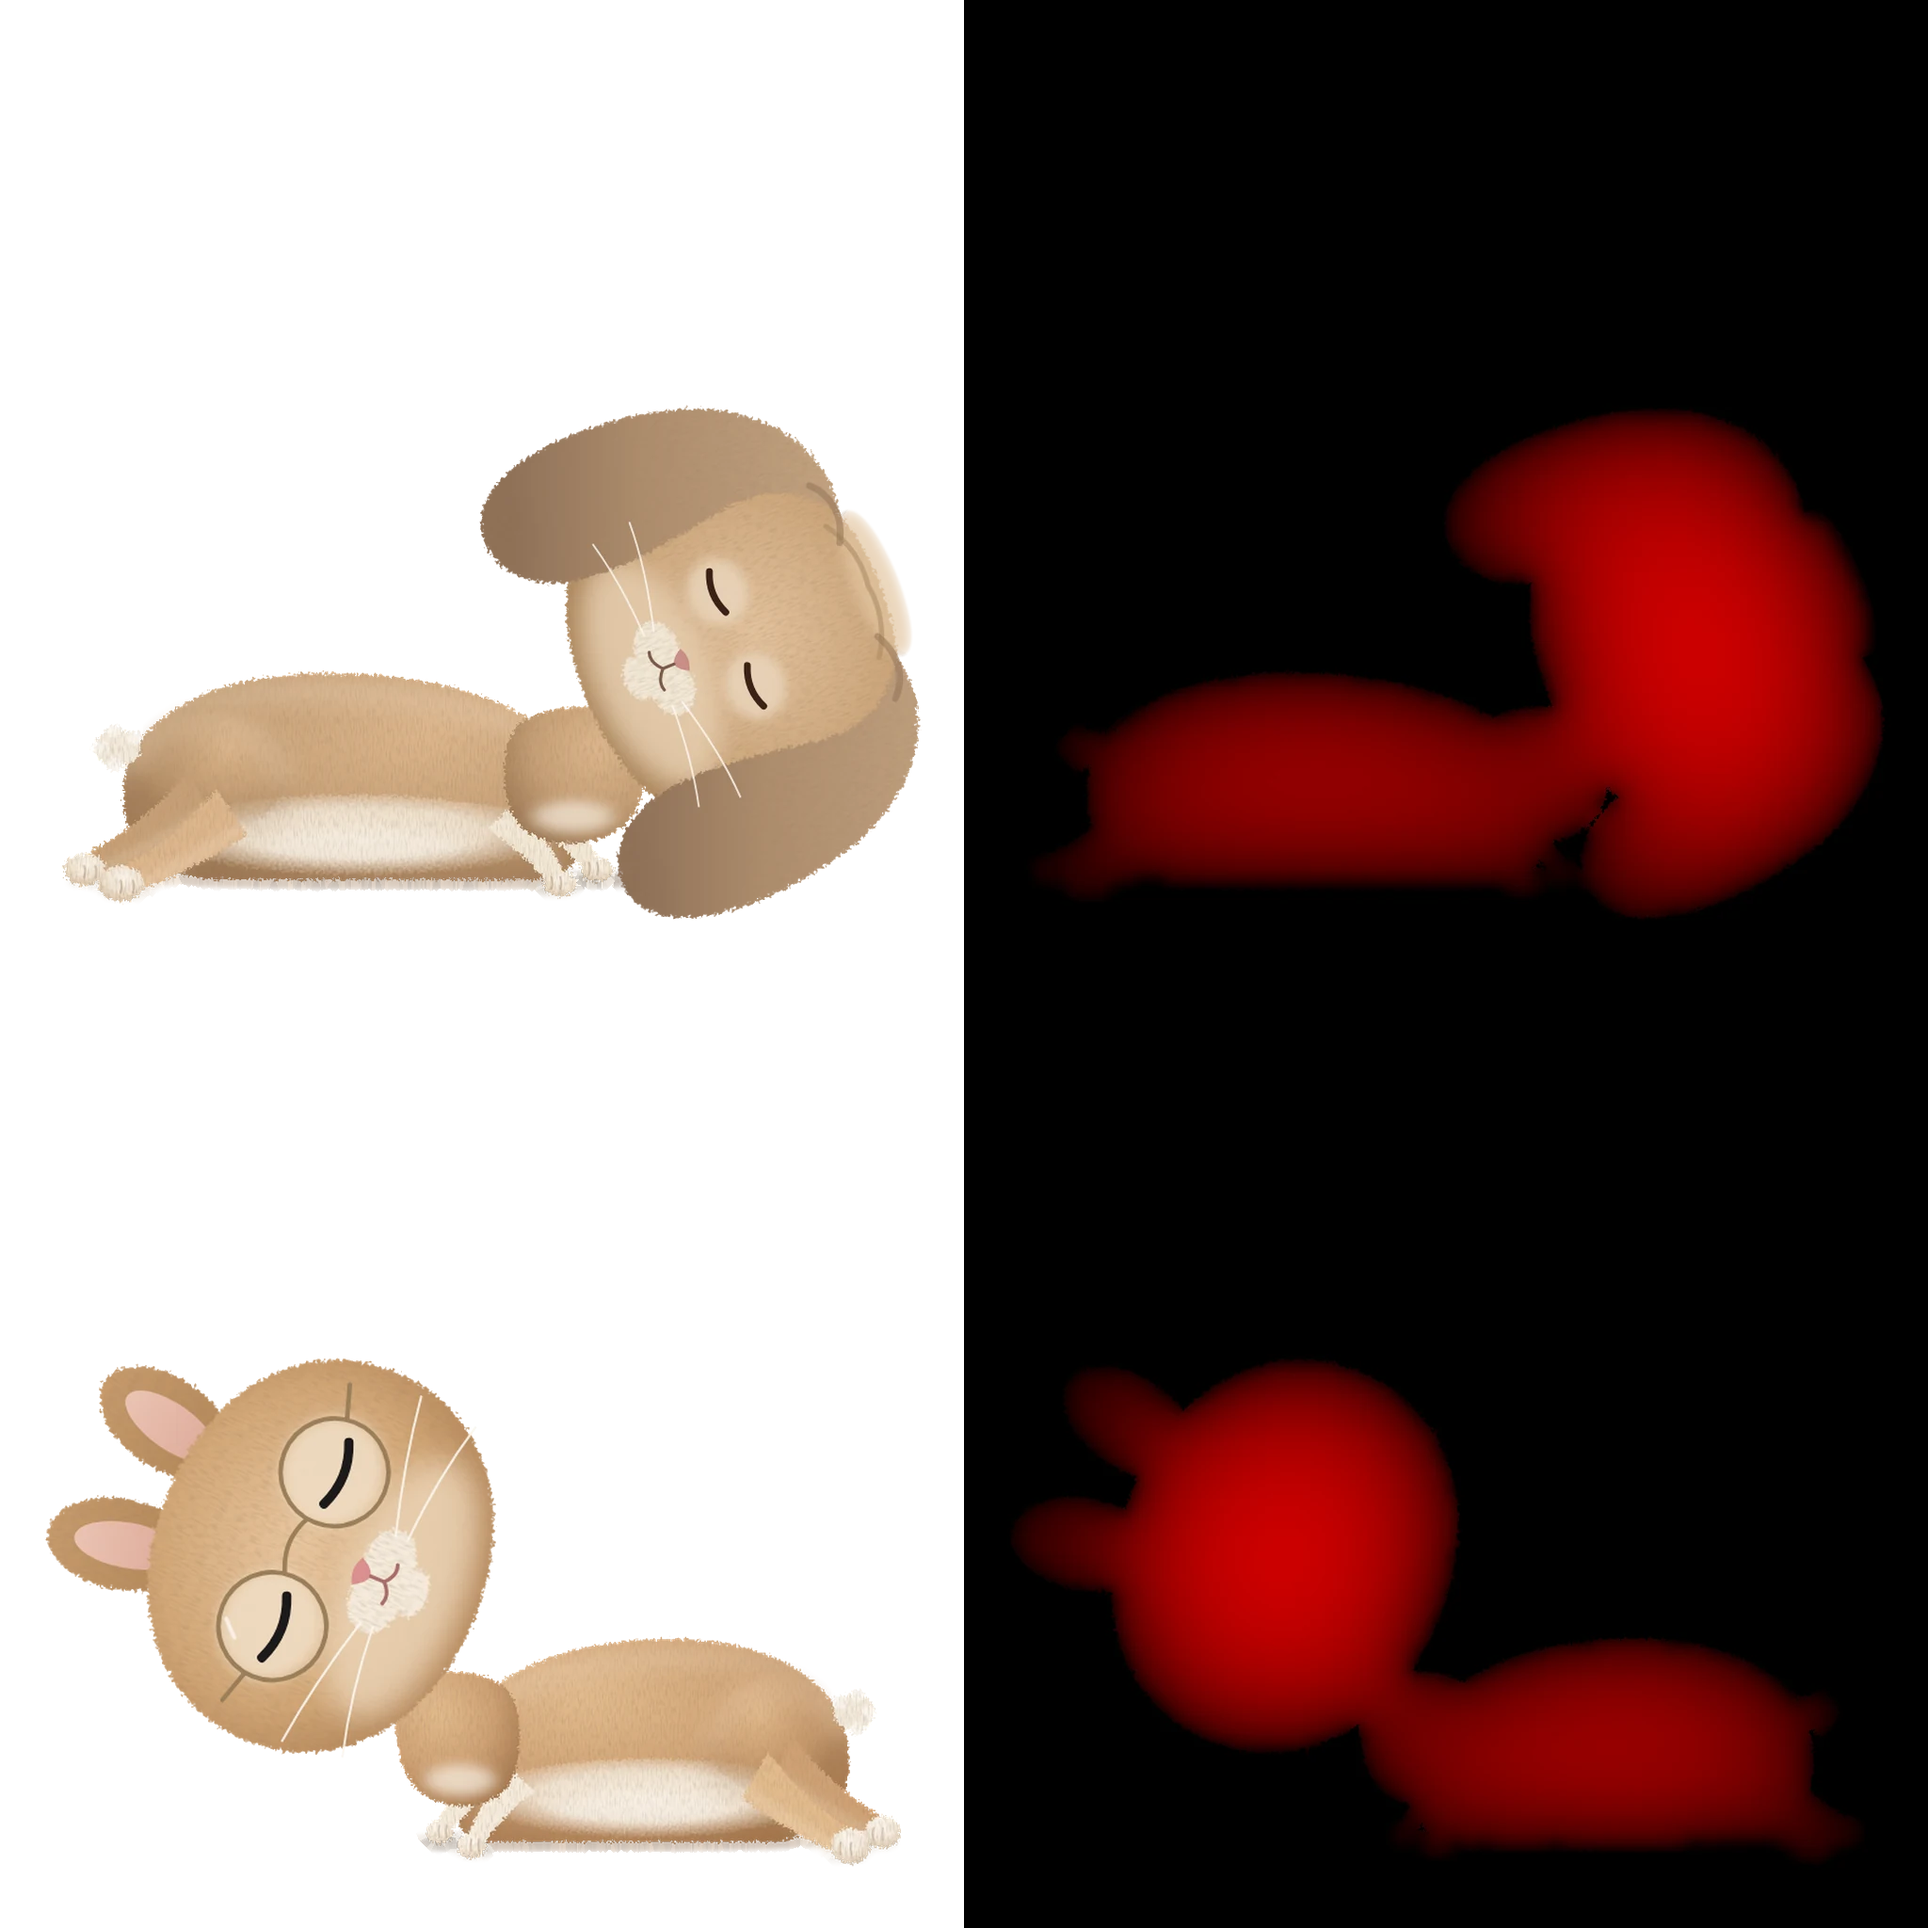
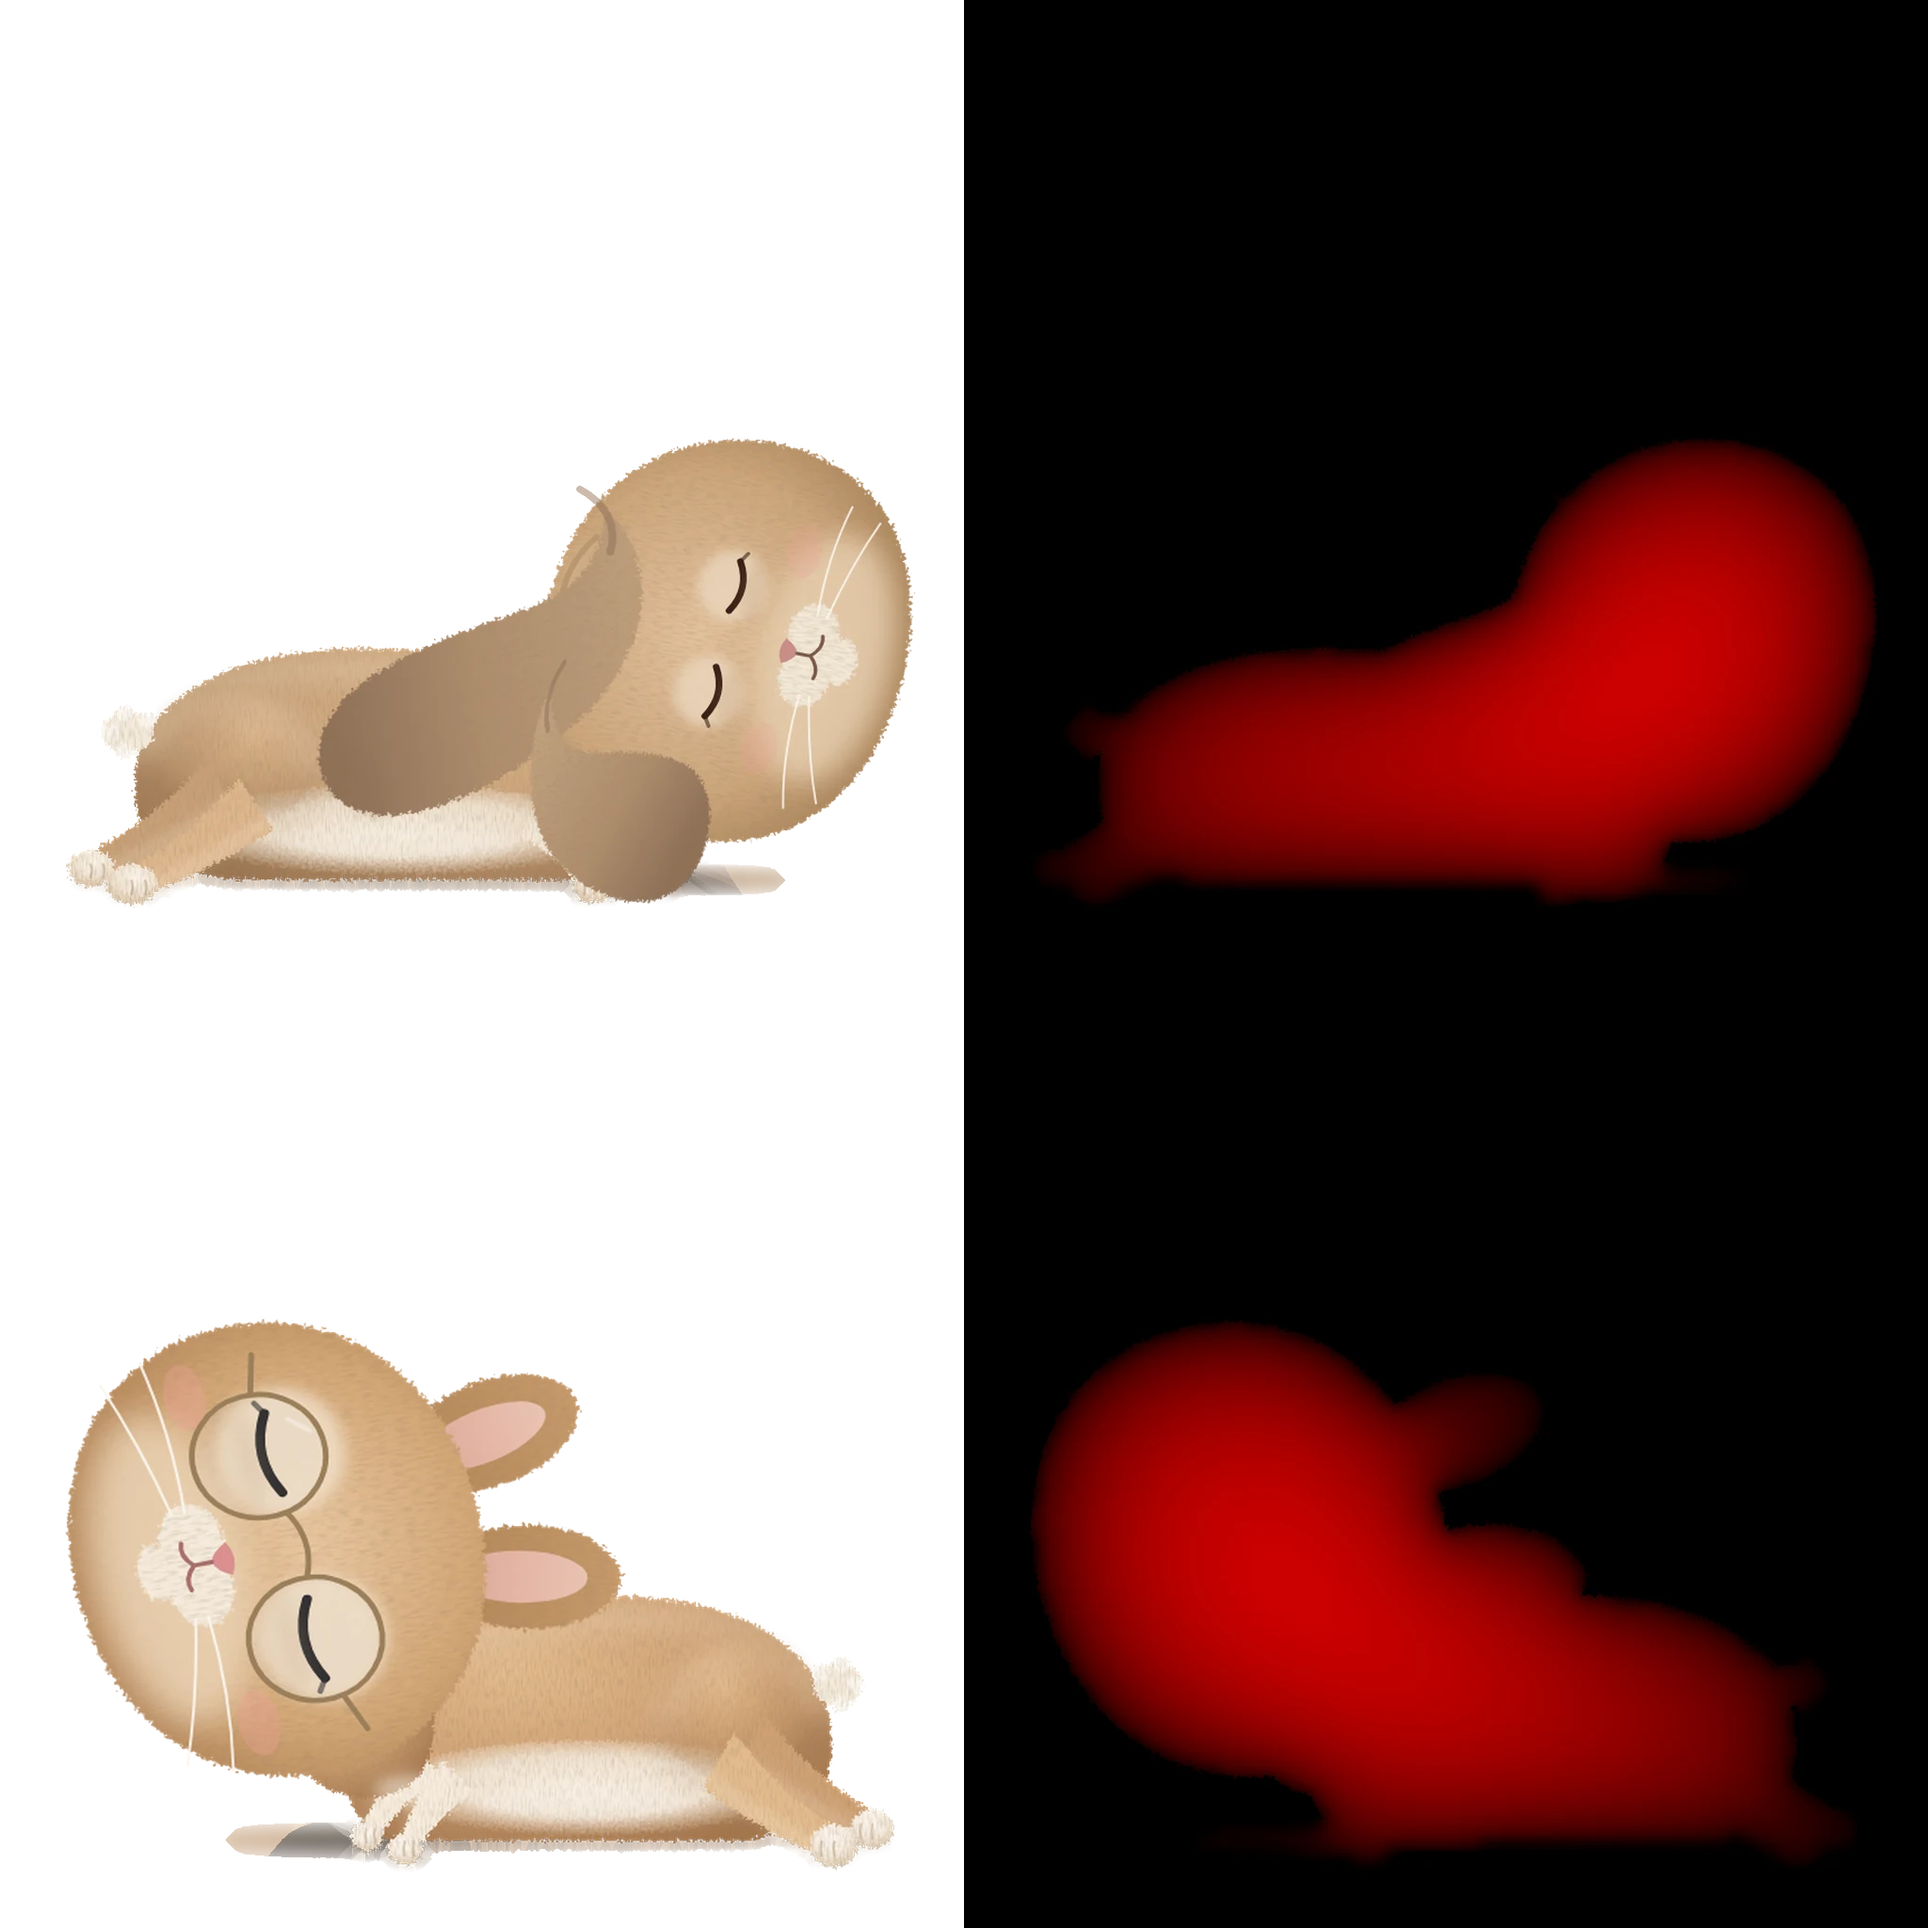
動くレンとジル：ばたんの首を本物に合わせる（ほおを床に・耳は背中へ）・倒れる動き・頭の上の輪を消す
Claude-Session: https://claude.ai/code/session_01KYhWQVkUVFVXPun7Dy396r

diff --git a/guide3d.js b/guide3d.js
@@ -32,7 +32,7 @@
   const FACE = { open: 0, blink: 1, happy: 2 };
   // 寝る姿勢の倍率（→ NOTES）
   const POSE_R = [1.728, 1.2604], POSE_X = [-0.3272, 0.2587];   // X＝ずれ
-  const FLOP_R = [1.456, 1.2865], FLOP_X = [-0.2088, 0.0738], t2 = (col, row) => [(col * CELL + PAD) / 2048, (row * CELL + PAD) / 2048, INNER / 2048, INNER / 2048];   // ばたん（2 枚目の絵 atlas2.webp）
+  const FLOP_R = [1.2992, 1.0677], FLOP_X = [-0.2872, 0.1832], t2 = (col, row) => [(col * CELL + PAD) / 2048, (row * CELL + PAD) / 2048, INNER / 2048, INNER / 2048];   // ばたん（2 枚目の絵 atlas2.webp）
   const BOW_R = [1.408, 1.125], BOW_X = [-0.1528, 0.0938];   // 前のび（伸び＋あくび）の（→ NOTES）
   const flatOff = (c) => { const X = c.fp ? FLOP_X : POSE_X, Rr = c.fp ? FLOP_R : POSE_R; return Math.cos(c.tA || 0) >= 0 ? X[c.row] + (c.row ? 0.16 : -0.16) : (c.row ? -1 : 1) * (0.3 - Rr[c.row] / 2); };   // 寝る絵のまん中のずれ（→ NOTES）
   const FOOT = 0.058;      // 絵の下から足の裏までの割合
@@ -446,7 +446,7 @@ void main() { vec4 c = texture2D(uI, uTile.xy + (vQ * vec2(0.5, -0.5) + 0.5) * u
         c.asleep = asleep; c.idNow = id; c.env = env; c.loafNow = loaf; c.calmNow = calm;
         { const wb = c.mode === "sit" && c.idNow === "stretch" && c.env > 0.3 && !c.flat; if (wb !== c.bwG) { c.bwG = wb; c.bwT = 0; } if ((c.bwT ?? 1) < 1) { const w0 = c.bwT; c.bwT = Math.min(1, c.bwT + dt / 0.32); if (w0 < 0.5 && c.bwT >= 0.5) c.bw = wb; } }   // 伸び：前足を前へ・お尻を（→ NOTES）
         // 居眠り：のびて横になる（（→ NOTES）
-        { const want = asleep && c.hop === 0; if (want !== c.flatGoal) { c.flatGoal = want; c.lieT = 0; if (want) c.fp = !!tex2 && Math.random() < 0.4; } if (c.lieT < 1) { const was = c.lieT; c.lieT = Math.min(1, c.lieT + dt / (want ? 0.7 : 0.45)); if (was < 0.5 && c.lieT >= 0.5) { c.flat = want; if (want) c.legIn = 0.45; } }
+        { const want = asleep && c.hop === 0; if (want !== c.flatGoal) { c.flatGoal = want; c.lieT = 0; if (want) c.fp = !!tex2 && Math.random() < 0.4; } if (c.lieT < 1) { const was = c.lieT; c.lieT = Math.min(1, c.lieT + dt / (want ? 0.7 : 0.45)); if (was < 0.5 && c.lieT >= 0.5) { c.flat = want; if (want) c.legIn = 0.45; if (want && c.fp) { c.dust = 0.8; c.dX = c.x; c.dY = c.gy; c.dK = 0.7; c.dDir = 0; } } }
           c.legIn = want ? (c.legIn || 0) * Math.max(0, 1 - dt * 3.2) : c.lieT < 0.5 ? c.lieT * 0.9 : 0;   // 横になると後ろ足をうしろへ少（→ NOTES）
           if (c.flat && (Math.random() < dt / 7 || (c.twN > 0 && (c.twN -= dt) <= 0))) { c.tw = 1; c.twN = Math.random() < 0.5 ? 0.3 : 0; } if (c.flat && Math.random() < dt / 11) c.sigh = 1; c.tw = Math.max(0, (c.tw || 0) - dt * 5); c.sigh = Math.max(0, (c.sigh || 0) - dt / 2.4); }   // 夢で足がぴくっ／ときどき大きく息
       }
@@ -553,7 +553,7 @@ void main() { vec4 c = texture2D(uI, uTile.xy + (vQ * vec2(0.5, -0.5) + 0.5) * u
       const wig = c.spinT >= 0 ? Math.sin(c.spinT * Math.PI * 4) * 0.17 * (1 - c.spinT) : 0;   // 押したとき：体を左右に振る
       gl.uniform3f(u.uPos, cx(c, c.x + (c.sl || 0) + piv * c.size * 0.05 * (c.tG > 1.5 ? -1 : 1) * (c.row ? -1 : 1)) + (fl ? flatOff(c) * c.size : bw ? (BOW_X[c.row] + (c.row ? 0.24 : -0.24)) * mm * c.size : 0), cy(c, c.y - c.size * (c.row ? 0.07 : 0.045) * piv), c.z); gl.uniform1f(u.uSize, (c.size * pin(c) + c.size * (1 - pin(c)) * 0.45) * R);   // 近づくぶんは少し大きく（→ NOTES）
       gl.uniform1f(u.uM, fl ? (mc < 0 ? Math.PI : 0) : c.tA || 0); gl.uniform1f(u.uMf, mm > 0 ? 1 : -1);
-      gl.uniform3f(u.uRot, fl ? 0 : c.rx, fl ? 0 : c.ry, fl ? 0 : c.rz + wig + (c.flatGoal && c.lieT < 0.5 ? (c.row ? 1 : -1) * mm * 0.14 * Math.sin(Math.PI * c.lieT * 2) : 0)); gl.uniform1f(u.uTurn, fl ? 0 : clamp(c.ry, -0.6, 0.6) + ((c.tA || 0) > 1.5708 ? (c.tA || 0) - Math.PI : c.tA || 0) * 0.45); gl.uniform2f(u.uSq, (1 + c.ext) / Math.sqrt(c.sq * dip), c.sq * dip); gl.uniform2f(u.uLag, fl ? 0 : c.lagX, fl ? 0 : c.lagY);   // 寝る：体が長いので回さな（→ NOTES）
+      gl.uniform3f(u.uRot, fl ? 0 : c.rx, fl ? 0 : c.ry, fl ? 0 : c.rz + wig + (c.flatGoal && c.lieT < 0.5 ? (c.row ? 1 : -1) * mm * (c.fp ? 0.2 * Math.pow(c.lieT * 2, 1.7) : 0.14 * Math.sin(Math.PI * c.lieT * 2)) : 0)); gl.uniform1f(u.uTurn, fl ? 0 : clamp(c.ry, -0.6, 0.6) + ((c.tA || 0) > 1.5708 ? (c.tA || 0) - Math.PI : c.tA || 0) * 0.45); gl.uniform2f(u.uSq, (1 + c.ext) / Math.sqrt(c.sq * dip), c.sq * dip); gl.uniform2f(u.uLag, fl ? 0 : c.lagX, fl ? 0 : c.lagY);   // 寝る：体が長いので回さな（→ NOTES）
       { const B = BODY[c.row], breath = (c.asleep ? 0.05 : 0.03 + 0.02 * c.exert) * (0.5 + 0.5 * Math.sin(c.br));
         if (fl || bw) { // 寝ている（→ NOTES）
           gl.uniform4f(u.uEar, 0, 0, 0, 0); gl.uniform4f(u.uEarP, B.ear[0], B.ear[1], B.ear[2], B.ear[3]); gl.uniform4f(u.uHead, 0, 0, B.neck, 0); gl.uniform4f(u.uNose, 0.5, 0.5, 0, 0);

diff --git a/index.html b/index.html
@@ -3312,7 +3312,7 @@ Object.defineProperty(window, "__RJ", { get: () => ({ T, EPS, jstISO, openLb, cl
 /* ═══════ 案内役の 3D：ページを読み終えてから、別ファイル guide3d.js を読む（最初の表示を遅くしない）═══════ */
 (() => {
   if (matchMedia("(prefers-reduced-motion: reduce)").matches || (navigator.connection || {}).saveData || !document.getElementById("g3d")) return;
-  const run = () => { const s = document.createElement("script"); s.src = "guide3d.js?v=4f113acd"; s.async = true; s.dataset.atlas = "img/g3d/atlas.webp?v=099bcae3"; s.dataset.atlas2 = "img/g3d/atlas2.webp?v=424c3b9d"; document.head.appendChild(s); };
+  const run = () => { const s = document.createElement("script"); s.src = "guide3d.js?v=9c28ff88"; s.async = true; s.dataset.atlas = "img/g3d/atlas.webp?v=2666e040"; s.dataset.atlas2 = "img/g3d/atlas2.webp?v=851fb454"; document.head.appendChild(s); };
   // 画像や動画を全部待たず、HTML を読み終えて手が空いたら始める（2 人が早く出てくる）
   const soon = () => (window.requestIdleCallback ? requestIdleCallback(run, { timeout: 1200 }) : setTimeout(run, 300));
   if (document.readyState === "loading") addEventListener("DOMContentLoaded", soon, { once: true }); else soon();

diff --git a/docs/SPLOOT-2026-11-17.md b/docs/SPLOOT-2026-11-17.md
@@ -197,3 +197,25 @@
 - ばたん：寝ころぶ時、4 回に 1〜2 回（約 40%）は横に倒れて寝る絵になる（`flop`）。向いている方向のまま倒れる。
 - ばたんの絵は 2 枚目の絵（img/g3d/atlas2.webp、2048 四方）に入れた。スマホは 4096 より大きい絵を読めないことがあるため。2 枚目が読めない時は、ばたんをせず、今までの寝方になる。
 - 点検：qa/check.mjs の 57 番が、伸び・ばたんの倒し具合・ずれが poses.json と同じか、2 枚目の絵の ?v= が中身の指紋と同じかを見張る。
+
+## 2026-11-17 追加：ばたんの首を本物に合わせる（オーナー「寝転んだ時に首が変になる・現実とかけ離れた動きをさけたい」）
+
+本物のうさぎの横倒し寝：ほおを床につける／頭は背骨の延長線上／耳は背中側へ寝かせる／首は肩の毛に埋まって見えない／倒れる時は「ばたん」と一気に倒れ、床で少し弾む。
+
+1. 頭を鼻先側でなく背中側へ倒す（前は逆向きで、耳が前に突き出ていた）
+2. ほおを床につける（ジルは頭が宙に浮いていた）
+3. 頭を肩に重ね、細い首の棒を見せない
+4. ほおが床に押されて少しつぶれる
+5. ほおの下の床に、こい影
+6. レンの上の耳は背中へ寝かせる
+7. レンの下の耳は頭の下じきで、床に沿って短く見える
+8. ジルは自分の高さ・位置。立ち耳は頭ごと背中へ寝る
+9. のど元の毛を小さく（あごの下のこぶに見えていた）
+10. 前足は胸の下から床へ短く（あごの下の棒に見えていた）
+11. 寝顔（閉じた目・ゆるんだひげ・弱いほおの赤み・ずり落ちたメガネ）をのび寝と共通に
+12. のび寝用の「前足に押されたほおの毛」は、ばたんでは出さない（顔の外にうすい影が浮いていた）
+13. レンの頭のてっぺんの光を頭の内側へ（座った絵でも、うすい輪がのって見えていた。ゲームも同じ数字に）
+14. 倒れる時、頭のある側へ傾いてから横倒しになる
+15. 床についた時、小さな土ぼこり
+16. 傾きは控えめ（大きく傾けると頭が横へ大きく振れ、点検 57 番の「押すと絵がはみ出す」に引っかかった。点検は弱めず、動きを直した）
+17. 点検の強化：説明（//）のあとに、開いていないかっこ閉じが続く形も見つける（アニメ側でまた起こしかけたため。サイト・アニメの両方）
